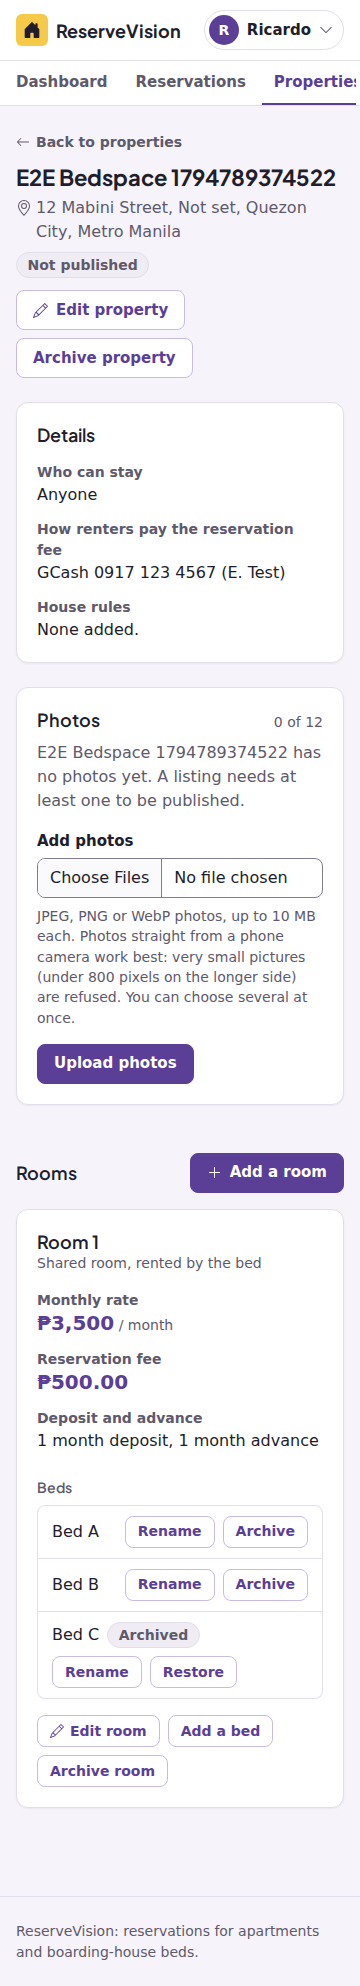
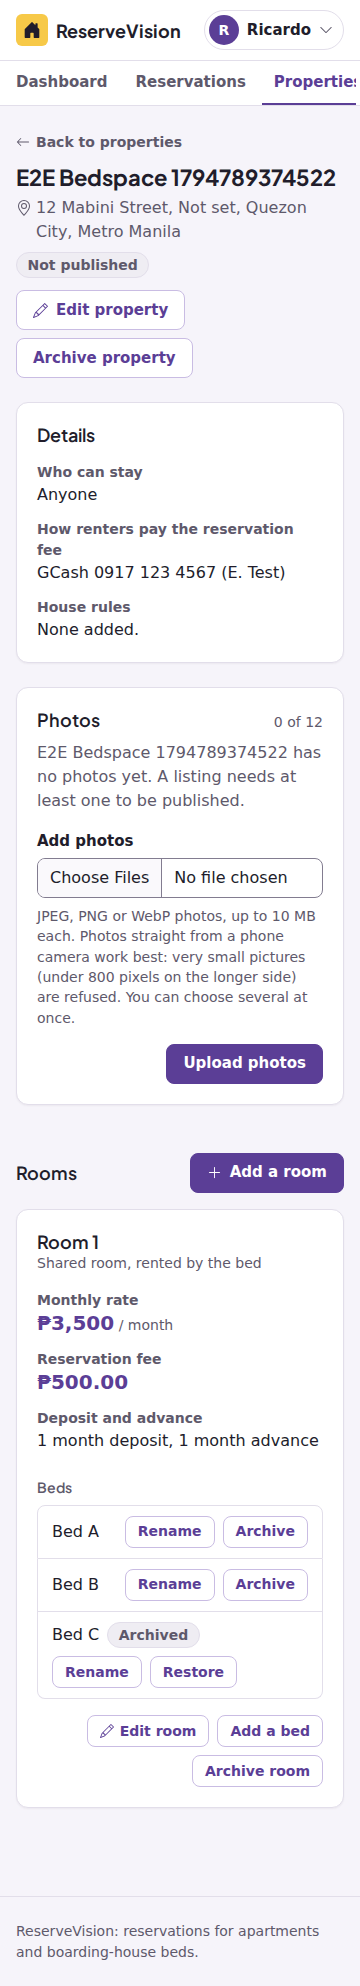
Forms fill the page with fields on the right; saving button last on the right

diff --git a/resources/js/Pages/Landlord/Properties/Form.tsx b/resources/js/Pages/Landlord/Properties/Form.tsx
@@ -86,15 +86,18 @@ export default function Form({ property, locked, places, amenities, kinds, gende
                     back={{ href: backHref, label: editing ? `Back to ${property.name}` : 'Back to properties' }}
                 />
 
-                <form noValidate onSubmit={submit} className="property-form form-card">
+                <form noValidate onSubmit={submit} className="property-form">
                     <ErrorSummary ref={summaryRef} errors={form.errors} order={FIELD_ORDER} />
 
                     <Card>
                         <section className="form-section" aria-labelledby="section-basics">
+                            <div>
                             <h2 id="section-basics" className="h3 form-section__title">
                                 The basics
                             </h2>
                             <p className="form-section__intro">What renters see first on your listing.</p>
+                            </div>
+                            <div className="form-section__fields">
 
                             <TextField
                                 name="name"
@@ -131,13 +134,17 @@ export default function Form({ property, locked, places, amenities, kinds, gende
                                     />
                                 </div>
                             </div>
+                        </div>
                         </section>
 
                         <section className="form-section" aria-labelledby="section-address">
+                            <div>
                             <h2 id="section-address" className="h3 form-section__title">
                                 Address
                             </h2>
                             <p className="form-section__intro">Where the property is. Renters see this on your listing.</p>
+                            </div>
+                            <div className="form-section__fields">
 
                             <TextField
                                 name="address"
@@ -189,13 +196,17 @@ export default function Form({ property, locked, places, amenities, kinds, gende
                                     />
                                 </div>
                             </div>
+                        </div>
                         </section>
 
                         <section className="form-section" aria-labelledby="section-renters">
+                            <div>
                             <h2 id="section-renters" className="h3 form-section__title">
                                 For renters
                             </h2>
                             <p className="form-section__intro">What the place offers, its rules, and how to pay you.</p>
+                            </div>
+                            <div className="form-section__fields">
 
                             <CheckboxGroup
                                 name="amenities"
@@ -227,15 +238,16 @@ export default function Form({ property, locked, places, amenities, kinds, gende
                                 rows={3}
                                 optional
                             />
+                        </div>
                         </section>
 
                         <div className="form-actions">
-                            <SubmitButton processing={form.processing} pendingLabel="Saving…" className="">
-                                {editing ? 'Save changes' : 'Save as a draft'}
-                            </SubmitButton>
                             <Link href={backHref} className="btn btn-outline-primary">
                                 Cancel
                             </Link>
+                            <SubmitButton processing={form.processing} pendingLabel="Saving…" className="">
+                                {editing ? 'Save changes' : 'Save as a draft'}
+                            </SubmitButton>
                         </div>
                     </Card>
                 </form>

diff --git a/resources/js/Pages/Landlord/Rooms/Form.tsx b/resources/js/Pages/Landlord/Rooms/Form.tsx
@@ -68,15 +68,18 @@ export default function Form({ property, room, type_locked: typeLocked }: FormPr
                     back={{ href: `/landlord/properties/${property.id}`, label: `Back to ${property.name}` }}
                 />
 
-                <form noValidate onSubmit={submit} className="room-form form-card">
+                <form noValidate onSubmit={submit} className="room-form">
                     <ErrorSummary ref={summaryRef} errors={form.errors} order={FIELD_ORDER} />
 
                     <Card>
                         <section className="form-section" aria-labelledby="section-room">
+                            <div>
                             <h2 id="section-room" className="h3 form-section__title">
                                 The room
                             </h2>
                             <p className="form-section__intro">A private room is rented whole. A shared room is rented one bed at a time.</p>
+                            </div>
+                            <div className="form-section__fields">
 
                     <TextField
                         name="name"
@@ -130,13 +133,17 @@ export default function Form({ property, room, type_locked: typeLocked }: FormPr
                         </p>
                     )}
 
+                        </div>
                         </section>
 
                         <section className="form-section" aria-labelledby="section-prices">
+                            <div>
                             <h2 id="section-prices" className="h3 form-section__title">
                                 Prices
                             </h2>
                             <p className="form-section__intro">What a renter pays to reserve, and when they move in.</p>
+                            </div>
+                            <div className="form-section__fields">
 
                     <div className="row">
                         <div className="col-sm-6">
@@ -192,15 +199,16 @@ export default function Form({ property, room, type_locked: typeLocked }: FormPr
                         </div>
                     </div>
 
+                        </div>
                         </section>
 
                         <div className="form-actions">
-                            <SubmitButton processing={form.processing} pendingLabel="Saving…" className="">
-                                {editing ? 'Save changes' : 'Add room'}
-                            </SubmitButton>
                             <Link href={`/landlord/properties/${property.id}`} className="btn btn-outline-primary">
                                 Cancel
                             </Link>
+                            <SubmitButton processing={form.processing} pendingLabel="Saving…" className="">
+                                {editing ? 'Save changes' : 'Add room'}
+                            </SubmitButton>
                         </div>
                     </Card>
                 </form>

diff --git a/resources/js/Components/PropertyPhotos.tsx b/resources/js/Components/PropertyPhotos.tsx
@@ -75,13 +75,13 @@ function DescriptionForm({ photo, onDone }: { photo: Photo; onDone: () => void }
                 className="mb-2"
                 autoFocus
             />
-            <div className="d-flex flex-wrap gap-2">
-                <SubmitButton processing={form.processing} pendingLabel="Saving…" className="btn-sm">
-                    Save description
-                </SubmitButton>
+            <div className="button-row">
                 <Button type="button" size="sm" variant="outline-primary" onClick={onDone}>
                     Cancel
                 </Button>
+                <SubmitButton processing={form.processing} pendingLabel="Saving…" className="btn-sm">
+                    Save description
+                </SubmitButton>
             </div>
         </form>
     );
@@ -209,7 +209,7 @@ function PhotoCard({ photo, count, canManage }: { photo: Photo; count: number; c
                                 Describe
                             </Button>
                         )}
-                        <Button type="button" size="sm" variant="outline-danger" aria-label={`Delete ${name}`} onClick={() => setConfirming(true)}>
+                        <Button type="button" size="sm" variant="outline-danger" className="ms-auto" aria-label={`Delete ${name}`} onClick={() => setConfirming(true)}>
                             Delete
                         </Button>
                     </div>
@@ -348,9 +348,11 @@ export default function PropertyPhotos({ propertyId, propertyName, photos, limit
                         <p id={helpId} className="form-text mb-3">
                             JPEG, PNG or WebP photos, up to 10 MB each. Photos straight from a phone camera work best: very small pictures (under 800 pixels on the longer side) are refused. You can choose several at once.
                         </p>
-                        <SubmitButton processing={progress !== null} pendingLabel="Uploading…" className="">
-                            Upload photos
-                        </SubmitButton>
+                        <div className="button-row">
+                            <SubmitButton processing={progress !== null} pendingLabel="Uploading…" className="">
+                                Upload photos
+                            </SubmitButton>
+                        </div>
                     </form>
                 )}
                 {canManage && room <= 0 && (

diff --git a/resources/js/Pages/Landlord/Properties/Show.tsx b/resources/js/Pages/Landlord/Properties/Show.tsx
@@ -91,13 +91,13 @@ function SpaceRow({ space }: { space: Space }) {
                         required
                         autoFocus
                     />
-                    <div className="d-flex gap-2">
-                        <SubmitButton processing={form.processing} pendingLabel="Saving…" className="">
-                            Save name
-                        </SubmitButton>
+                    <div className="button-row">
                         <Button type="button" variant="outline-primary" onClick={() => { form.reset(); form.clearErrors(); setRenaming(false); }}>
                             Cancel
                         </Button>
+                        <SubmitButton processing={form.processing} pendingLabel="Saving…" className="">
+                            Save name
+                        </SubmitButton>
                     </div>
                 </form>
             </ListGroup.Item>
@@ -174,7 +174,7 @@ function RoomCard({ room }: { room: Room }) {
                 </ListGroup>
 
                 {(room.can_edit || room.can_add_space || room.can_archive) && (
-                    <div className="d-flex flex-wrap gap-2">
+                    <div className="button-row">
                         {room.can_edit && (
                             <Link href={`/landlord/rooms/${room.id}/edit`} className="btn btn-outline-primary btn-sm" aria-label={`Edit room ${room.name}`}>
                                 <Pencil aria-hidden="true" focusable="false" />

diff --git a/resources/js/Pages/Landlord/Members/Index.tsx b/resources/js/Pages/Landlord/Members/Index.tsx
@@ -91,7 +91,7 @@ export default function Index({ members, invitations }: IndexProps) {
                     </Card>
                 )}
 
-                <Card className="form-card mt-4">
+                <Card className="mt-4">
                     <Card.Body>
                         <h2 className="h3 mb-3">Invite a caretaker</h2>
                         <Alert variant="info" className="d-flex gap-2 align-items-start">
@@ -112,9 +112,11 @@ export default function Index({ members, invitations }: IndexProps) {
                                 help="A caretaker can see reservations and properties, but can't change prices or invite people. The invitation is good for 7 days."
                                 required
                             />
-                            <SubmitButton processing={form.processing} pendingLabel="Saving…" className="">
-                                Save invitation
-                            </SubmitButton>
+                            <div className="button-row">
+                                <SubmitButton processing={form.processing} pendingLabel="Saving…" className="">
+                                    Save invitation
+                                </SubmitButton>
+                            </div>
                         </form>
                     </Card.Body>
                 </Card>

diff --git a/resources/scss/_components.scss b/resources/scss/_components.scss
@@ -371,11 +371,9 @@ a {
   }
 }
 
-// Forms sit on a card, in titled sections.
-.form-card {
-  max-width: 46rem;
-}
-
+// Forms sit on a card as wide as the page, in titled sections. From lg a section is two
+// columns: its title and intro on the left, its fields on the right, so the fields of every
+// section line up on the right-hand side and the card has no empty half.
 .form-section {
   padding: 1.25rem;
 
@@ -383,13 +381,19 @@ a {
     padding: 1.5rem;
   }
 
+  @include media-breakpoint-up(lg) {
+    display: grid;
+    grid-template-columns: minmax(0, 1fr) minmax(0, 2fr);
+    gap: 0 2.5rem;
+  }
+
   + .form-section {
     border-top: 1px solid $rv-border;
   }
+}
 
-  > :last-child {
-    margin-bottom: 0;
-  }
+.form-section__fields > :last-child {
+  margin-bottom: 0;
 }
 
 .form-section__title {
@@ -402,11 +406,18 @@ a {
   font-size: $rv-font-size-small;
 }
 
-.form-actions {
+// A form's buttons are on the right, and the one that saves (or deletes) is the last:
+// Cancel, then Save. The same order as the confirmation dialogs.
+.form-actions,
+.button-row {
   display: flex;
   flex-wrap: wrap;
   align-items: center;
+  justify-content: flex-end;
   gap: 0.5rem;
+}
+
+.form-actions {
   padding: 1rem 1.25rem;
   border-top: 1px solid $rv-border;
   border-radius: 0 0 calc(#{$rv-radius-lg} - 1px) calc(#{$rv-radius-lg} - 1px);

diff --git a/docs/DESIGN_SYSTEM.md b/docs/DESIGN_SYSTEM.md
@@ -119,7 +119,7 @@ Use React-Bootstrap first; build a custom component only when the table says so.
 | --- | --- | --- |
 | Buttons | `Button` | `primary` (filled ube): the one main action of a view. `outline-primary` (white, soft ube line): every other action. `outline-danger`: a destructive action that opens a confirmation; `danger` (filled): the confirming button in that dialog. No `secondary` or `link` buttons. Sizes: default next to fields and in page headers; `sm` only in rows and cards, and only next to other small buttons. An icon goes before the label (after it for "Next") |
 | Links | `a`, Inertia `Link` | In a sentence a link keeps an underline, drawn thin and soft until hovered (color alone isn't a signal). A link that stands alone has none: `.link-plain` (ink, 600; names in a table, card titles), `.link-action` (ube, 600; "Forgot your password?", an email address), `.back-link` (muted, small, with an arrow; "Back to properties") |
-| Forms | `Form`, `FloatingLabel` is **not** used | On a card (`.form-card`), in titled sections (`.form-section`) with the buttons in an action bar (`.form-actions`): the primary button, then Cancel. Labels above fields; `Form.Text` for help. Long forms pair fields side by side from `sm`. A value the form shows but nobody types (the province) is a read-only field on `surface-muted` |
+| Forms | `Form`, `FloatingLabel` is **not** used | On a card as wide as the page, in titled sections (`.form-section`): from `lg` a section's title and intro are on the left and its fields (`.form-section__fields`) on the right, so every section's fields line up and the card has no empty half. The buttons are in an action bar (`.form-actions`), **on the right, with the one that saves or deletes last**: Cancel, then Save. The same goes for any row of buttons under a form or on a card (`.button-row`), and for the confirmation dialogs. Labels above fields; `Form.Text` for help. Long forms pair fields side by side from `sm`. A value the form shows but nobody types (the province) is a read-only field on `surface-muted` |
 | Dropdowns | `Form.Select` (native) | A native `<select>`: best on phones and with screen readers. The closed field matches the inputs (`primary` chevron, the control radius, border, hover and focus). The list that opens is styled where the browser allows it (`appearance: base-select`, Chromium today): a rounded card with the dropdown shadow, options that highlight in `primary-subtle`, and a tick on the chosen one. Other browsers show their own list |
 | Navigation | custom header | White header: the brand on the left; on the right Log in / Sign up, or the **account menu**. Landlord pages add the tab row under it (Dashboard, Reservations, Properties, Members), which scrolls sideways on a phone. The header has no Dashboard button: the tabs have it |
 | Dialogs | `Modal` | Confirmations of destructive or irreversible actions only |

diff --git a/CLAUDE.md b/CLAUDE.md
@@ -262,7 +262,7 @@ To see a failed photo by hand: `docker compose stop worker`, upload, replace the
 
 | Piece | Where |
 | --- | --- |
-| Surfaces | The page is `bg`; content sits on white cards (`$card-bg`). Tables: `<Card className="table-card"><Table className="stack-table">`. Forms: `form.form-card` > `Card` > `section.form-section` (titled) + `div.form-actions` (primary button, then Cancel). Label/value pairs: `dl.details.row` |
+| Surfaces | The page is `bg`; content sits on white cards (`$card-bg`). Tables: `<Card className="table-card"><Table className="stack-table">`. Forms: `form` > `Card` > `section.form-section` (a `div` with the title and intro, then `div.form-section__fields`; two columns from `lg`) + `div.form-actions`. Buttons are right-aligned with the saving or deleting one last (Cancel, then Save); `.button-row` does the same for buttons under a form or on a card. Label/value pairs: `dl.details.row` |
 | Controls | One height: `--rv-control-height` (40 px, 44 px under `pointer: coarse`) as `min-height` on `.btn`, `.form-control`, `.form-select`; `--rv-control-height-sm` for `.btn-sm`. One radius (`$rv-radius`) for both button sizes and fields. `.btn` is `inline-flex` with a gap, so an icon goes in as a sibling of the text. Never put a `btn-sm` next to a full-size control (`ActionButton` takes `size="md"` for page headers) |
 | Buttons | `primary` (one per view), `outline-primary` (everything else), `outline-danger` (opens a confirmation), `danger` (confirms it). No `outline-secondary`, no `btn-link` |
 | Links | Underlined in a sentence; standing alone: `.link-plain` (ink), `.link-action` (ube), `.back-link` (via `PageHeader`) |

diff --git a/docs/BUILD_PLAN.md b/docs/BUILD_PLAN.md
@@ -142,7 +142,7 @@ Ideas that came up and are deliberately not in any slice.
 | Revoke an invitation and resend from the members page (the policy ability `revoke` exists; the UI is 4.3) | Slice 3.2 |
 | Show a caretaker's email on the members page, if owners ask for it (today names only) | Slice 3.2 |
 | A map on the listing page. `lat`/`lng` were dropped (review after 4.2): if a map comes back, place the pin by geocoding the address or with a "drop a pin" picker, never typed coordinates | Slice 4.1, UI review |
-| More cities, and provinces beyond the seven in `database/data/places.php` (a province → city → barangay list such as the PSGC) | UI review |
+| Every province, city and barangay: import the PSA's PSGC list into our own tables and make province → city → barangay dependent dropdowns, instead of the seven cities in `database/data/places.php` and a typed barangay. Bundled data, not a live third-party API. City slugs in listing URLs then need the province to stay unique (many towns are called San Jose) | UI review |
 | Let an owner fix an ugly generated listing link (`-2`) before publishing; the form field was removed as too technical | UI review |
 | A styled list for date fields (the dropdown list is styled in Chromium via `appearance: base-select`; the date picker is still the browser's) | UI review |
 | Redirect old slugs: let a published property's slug change and keep the old URL working with a 301 | Slice 4.1 |
